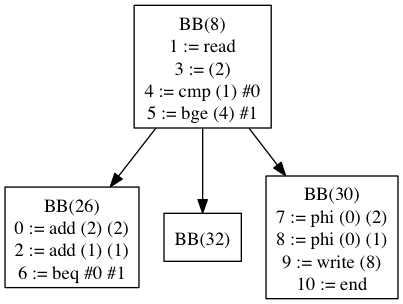
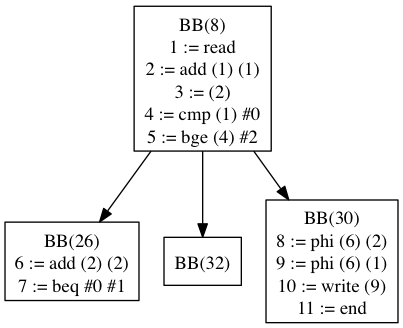
Fixed some parts of the register allocator

Changed region(s): [[0.3275, 0.0, 1.0, 1.0], [0.0, 0.5329, 0.3573, 0.977], [0.3871, 0.6513, 0.5955, 0.8882]]

diff --git a/project/src/com/uci/cs241/pl241/optimization/RegisterAllocator.java b/project/src/com/uci/cs241/pl241/optimization/RegisterAllocator.java
@@ -6,6 +6,7 @@ import java.util.HashSet;
 import com.uci.cs241.pl241.ir.PLIRBasicBlock;
 import com.uci.cs241.pl241.ir.PLIRInstruction;
 import com.uci.cs241.pl241.ir.PLIRInstruction.PLIRInstructionType;
+import com.uci.cs241.pl241.ir.PLStaticSingleAssignment;
 
 public class RegisterAllocator 
 {
@@ -76,21 +77,36 @@ public class RegisterAllocator
 		for (int i = b.instructions.size() - 1; i >= 0; i--)
 		{
 			PLIRInstruction inst = b.instructions.get(i);
-			if (inst.opcode != PLIRInstructionType.PHI)
+			while (inst.refInst != null)
+			{
+				inst = inst.refInst;
+			}
+			if (PLStaticSingleAssignment.isIncluded(inst.id) && inst.isBranch() == false && inst.opcode != PLIRInstructionType.PHI)
 			{
 				live.remove(inst);
 				for (PLIRInstruction x : live)
 				{
 //					edgeSet.add(new Edge(inst.id, x.id));
+					System.err.println("Adding edge: " + inst.toString() + " " + x.toString());
 					ig.AddEdge(inst.id, x.id);
 				}
-				if (inst.op1 != null)
+				if (inst.op1 != null && PLStaticSingleAssignment.isIncluded(inst.op1.id))
 				{
-					live.add(inst.op1);
+					PLIRInstruction op = inst.op1;
+					while (op.refInst != null)
+					{
+						op = op.refInst;
+					}
+					live.add(op);
 				}
-				if (inst.op2 != null)
+				if (inst.op2 != null  && PLStaticSingleAssignment.isIncluded(inst.op2.id))
 				{
-					live.add(inst.op2);
+					PLIRInstruction op = inst.op2;
+					while (op.refInst != null)
+					{
+						op = op.refInst;
+					}
+					live.add(op);
 				}
 			}
 		}
@@ -99,7 +115,11 @@ public class RegisterAllocator
 		for (int i = b.instructions.size() - 1; i >= 0; i--)
 		{
 			PLIRInstruction inst = b.instructions.get(i);
-			if (inst.opcode == PLIRInstructionType.PHI)
+			while (inst.refInst != null)
+			{
+				inst = inst.refInst;
+			}
+			if (PLStaticSingleAssignment.isIncluded(inst.id) && inst.isBranch() == false && inst.opcode == PLIRInstructionType.PHI)
 			{
 				live.remove(inst);
 				for (PLIRInstruction x : live)
@@ -109,16 +129,26 @@ public class RegisterAllocator
 				}
 				if (branch == 1)
 				{
-					if (inst.op1 != null)
+					if (inst.op1 != null  && PLStaticSingleAssignment.isIncluded(inst.op1.id))
 					{
-						live.add(inst.op1);
+						PLIRInstruction op = inst.op1;
+						while (op.refInst != null)
+						{
+							op = op.refInst;
+						}
+						live.add(op);
 					}
 				}
 				else
 				{
-					if (inst.op2 != null)
+					if (inst.op2 != null  && PLStaticSingleAssignment.isIncluded(inst.op2.id))
 					{
-						live.add(inst.op2);
+						PLIRInstruction op = inst.op2;
+						while (op.refInst != null)
+						{
+							op = op.refInst;
+						}
+						live.add(op);
 					}
 				}
 			}
@@ -144,7 +174,11 @@ public class RegisterAllocator
 				for (int i = b.instructions.size() - 1; i >= 0; i--)
 				{
 					PLIRInstruction inst = b.instructions.get(i);
-					if (inst.opcode != PLIRInstructionType.PHI)
+					while (inst.refInst != null)
+					{
+						inst = inst.refInst;
+					}
+					if (PLStaticSingleAssignment.isIncluded(inst.id) && inst.isBranch() == false && inst.opcode != PLIRInstructionType.PHI)
 					{
 						liveprime.remove(inst);
 						for (PLIRInstruction x : liveprime)
@@ -152,13 +186,23 @@ public class RegisterAllocator
 //							edgeSet.add(new Edge(inst.id, x.id));
 							ig.AddEdge(inst.id, x.id);
 						}
-						if (inst.op1 != null)
+						if (inst.op1 != null  && PLStaticSingleAssignment.isIncluded(inst.op1.id))
 						{
-							liveprime.add(inst.op1);
+							PLIRInstruction op = inst.op1;
+							while (op.refInst != null)
+							{
+								op = op.refInst;
+							}
+							liveprime.add(op);
 						}
-						if (inst.op2 != null)
+						if (inst.op2 != null  && PLStaticSingleAssignment.isIncluded(inst.op2.id))
 						{
-							liveprime.add(inst.op2);
+							PLIRInstruction op = inst.op2;
+							while (op.refInst != null)
+							{
+								op = op.refInst;
+							}
+							liveprime.add(op);
 						}
 					}
 				}

diff --git a/project/src/com/uci/cs241/pl241/visualization/GraphvizRender.java b/project/src/com/uci/cs241/pl241/visualization/GraphvizRender.java
@@ -130,11 +130,11 @@ public class GraphvizRender
 	{
 		StringBuilder builder = new StringBuilder();
 		ArrayList<Integer> seen = new ArrayList<Integer>();
-		builder.append("digraph interference_graph {\n");
+		builder.append("graph interference_graph {\n");
 		builder.append("    node [shape = circle];\n");
 		for (Edge e : graph.edgeSet)
 		{
-			builder.append(e.u + " -> " + e.v + ";\n");
+			builder.append(e.u + " -- " + e.v + ";\n");
 		}
 		builder.append("}\n");
 		return builder.toString();

diff --git a/project/src/com/uci/cs241/pl241/ir/PLIRInstruction.java b/project/src/com/uci/cs241/pl241/ir/PLIRInstruction.java
@@ -425,6 +425,22 @@ public class PLIRInstruction
 		}
 	}
 	
+	public boolean isBranch()
+	{
+		switch (opcode)
+		{
+		case BEQ:
+		case BNE:
+		case BLT:
+		case BGT:
+		case BGE:
+		case BLE:
+			return true;
+		default:
+			return false;
+		}
+	}
+	
 	public static PLIRInstruction create_cmp(PLSymbolTable table, PLIRInstruction left, PLIRInstruction right)
 	{
 		PLIRInstruction inst = new PLIRInstruction(table);

diff --git a/project/src/com/uci/cs241/pl241/frontend/PLParser.java b/project/src/com/uci/cs241/pl241/frontend/PLParser.java
@@ -569,7 +569,7 @@ public class PLParser
 				load.forceGenerate(scope);
 				exprNode.addInstruction(load);
 				leftInst = load;
-			}
+			} 
 			
 			PLIRInstruction rightInst = rightNode.getLastInst();
 			if (rightInst.isArray)
@@ -623,6 +623,7 @@ public class PLParser
 			else
 			{
 				exprInst.type = OperandType.INST;
+				exprInst.forceGenerate(scope);
 			}
 			
 			

diff --git a/project/src/com/uci/cs241/pl241/ir/PLStaticSingleAssignment.java b/project/src/com/uci/cs241/pl241/ir/PLStaticSingleAssignment.java
@@ -18,6 +18,18 @@ public class PLStaticSingleAssignment
 	{
 	}
 	
+	public static boolean isIncluded(int id)
+	{
+		for (PLIRInstruction inst : instructions)
+		{
+			if (inst.id == id)
+			{
+				return true;
+			}
+		}
+		return false;
+	}
+	
 	public static int addInstruction(PLSymbolTable table, PLIRInstruction inst)
 	{
 //		if (globalSSAIndex == 30)

diff --git a/project/src/com/uci/cs241/pl241/optimization/InterferenceGraph.java b/project/src/com/uci/cs241/pl241/optimization/InterferenceGraph.java
@@ -13,6 +13,10 @@ public class InterferenceGraph
 	
 	public void AddEdge(int u, int v)
 	{
+		if (u == 0 || v == 0)
+		{
+			System.err.println("here");
+		}
 		for (Edge e : edgeSet)
 		{
 			if (e.u == u && e.v == v)
